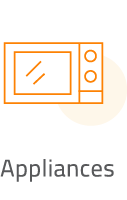
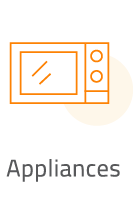
Updated code for adjusting the size of image.

diff --git a/app/src/main/java/com/appyhome/appyproduct/mvvm/ui/appyproduct/product/list/adapter/ProductItemViewModel.java b/app/src/main/java/com/appyhome/appyproduct/mvvm/ui/appyproduct/product/list/adapter/ProductItemViewModel.java
@@ -5,6 +5,7 @@ import android.databinding.ObservableField;
 import com.appyhome.appyproduct.mvvm.data.DataManager;
 import com.appyhome.appyproduct.mvvm.ui.base.BaseViewModel;
 import com.appyhome.appyproduct.mvvm.utils.rx.SchedulerProvider;
+import com.crashlytics.android.Crashlytics;
 
 public class ProductItemViewModel extends BaseViewModel<ProductItemNavigator> {
 
@@ -14,18 +15,14 @@ public class ProductItemViewModel extends BaseViewModel<ProductItemNavigator> {
     public ObservableField<Float> rate = new ObservableField<>(0f);
     public ObservableField<String> rateCount = new ObservableField<>("");
     public ObservableField<String> favoriteCount = new ObservableField<>("");
+    public ObservableField<Boolean> isFavorite = new ObservableField<>(false);
 
-    private int idCategory;
+    public ProductItemViewModel(DataManager dataManager,
+                                SchedulerProvider schedulerProvider) {
+        super(dataManager, schedulerProvider);
+    }
 
     private int idProduct;
-
-    public ProductItemViewModel() {
-        super();
-    }
-
-    public void setIdCategory(int idCategory) {
-        this.idCategory = idCategory;
-    }
 
     public int getIdProduct() {
         return idProduct;
@@ -33,5 +30,55 @@ public class ProductItemViewModel extends BaseViewModel<ProductItemNavigator> {
 
     public void setIdProduct(int idProduct) {
         this.idProduct = idProduct;
+    }
+
+    public void checkIfFavorite() {
+        getCompositeDisposable().add(getDataManager().isFavorite(idProduct, "1234")
+                .observeOn(getSchedulerProvider().ui())
+                .subscribe(value -> {
+                    isFavorite.set(value);
+                }, throwable -> {
+                    isFavorite.set(false);
+                    throwable.printStackTrace();
+                    Crashlytics.logException(throwable);
+                }));
+    }
+
+    public void updateProductFavorite(int position) {
+        boolean checkFavorite = !isFavorite.get();
+        if (checkFavorite)
+            getCompositeDisposable().add(getDataManager().addFavorite(idProduct, "1234")
+                    .observeOn(getSchedulerProvider().ui())
+                    .subscribe(value -> {
+                        getNavigator().showAlert("Favorited");
+                        getNavigator().notifyItemChanged(position);
+                    }, throwable -> {
+                        throwable.printStackTrace();
+                        Crashlytics.logException(throwable);
+                    }));
+        else
+            getCompositeDisposable().add(getDataManager().unFavorite(idProduct, "1234")
+                    .observeOn(getSchedulerProvider().ui())
+                    .subscribe(value -> {
+                        getNavigator().showAlert("Unfavorited");
+                        getNavigator().notifyItemChanged(position);
+                    }, throwable -> {
+                        throwable.printStackTrace();
+                        Crashlytics.logException(throwable);
+                    }));
+    }
+
+    public void addProductToCart() {
+        getCompositeDisposable().add(getDataManager().addProductToCart(idProduct, "1234")
+                .observeOn(getSchedulerProvider().ui())
+                .subscribe(productCart -> {
+                    if (productCart != null) {
+                        getNavigator().showAlert("Added to cart");
+                        getNavigator().updateCartCount();
+                    }
+                }, throwable -> {
+                    throwable.printStackTrace();
+                    Crashlytics.logException(throwable);
+                }));
     }
 }

diff --git a/app/src/main/java/com/appyhome/appyproduct/mvvm/ui/appyproduct/product/list/adapter/ProductAdapter.java b/app/src/main/java/com/appyhome/appyproduct/mvvm/ui/appyproduct/product/list/adapter/ProductAdapter.java
@@ -8,6 +8,7 @@ import android.view.ViewGroup;
 import com.appyhome.appyproduct.mvvm.R;
 import com.appyhome.appyproduct.mvvm.data.local.db.realm.Product;
 import com.appyhome.appyproduct.mvvm.databinding.ViewItemProductBinding;
+import com.appyhome.appyproduct.mvvm.ui.appyproduct.product.list.ProductListViewModel;
 import com.appyhome.appyproduct.mvvm.ui.base.BaseViewHolder;
 import com.appyhome.appyproduct.mvvm.ui.common.sample.adapter.SampleAdapter;
 
@@ -47,10 +48,10 @@ public class ProductAdapter extends SampleAdapter {
     }
 
     private ProductItemViewModel createViewModel(Product product, ProductItemNavigator navigator) {
-        ProductItemViewModel itemViewModel = new ProductItemViewModel();
+        ProductListViewModel viewModel = navigator.getMainViewModel();
+        ProductItemViewModel itemViewModel = new ProductItemViewModel(viewModel.getDataManager(), viewModel.getSchedulerProvider());
         itemViewModel.title.set(product.product_name);
         itemViewModel.imageURL.set(product.avatar_name);
-        itemViewModel.setIdCategory(product.category_id);
         itemViewModel.setIdProduct(product.id);
         itemViewModel.price.set("RM " + product.price);
         itemViewModel.setNavigator(navigator);
@@ -93,14 +94,22 @@ public class ProductAdapter extends SampleAdapter {
         @Override
         public void onBind(int position) {
             ProductItemViewModel viewModel = (ProductItemViewModel) mItems.get(position);
+            //viewModel.checkIfFavorite();
             if (mBinding != null) {
                 mBinding.setViewModel(viewModel);
                 mBinding.llItemView.setTag(mBinding.getViewModel());
+                mBinding.ibAddFavorite.setOnClickListener(view -> {
+                    Object tag = view.getTag();
+                    if (tag instanceof ProductItemViewModel) {
+                        ProductItemViewModel tempModel = (ProductItemViewModel) tag;
+                        tempModel.updateProductFavorite(mItems.indexOf(tempModel));
+                    }
+                });
                 mBinding.llItemView.setOnClickListener(view -> {
                     Object tag = view.getTag();
                     if (tag instanceof ProductItemViewModel) {
                         ProductItemViewModel tempModel = (ProductItemViewModel) tag;
-                        tempModel.getNavigator().onClickProductItem(ProductAdapter.this, view, viewModel.getIdProduct());
+                        tempModel.addProductToCart();
                     }
                 });
             }

diff --git a/app/src/main/java/com/appyhome/appyproduct/mvvm/ui/appyproduct/product/list/ProductListViewModel.java b/app/src/main/java/com/appyhome/appyproduct/mvvm/ui/appyproduct/product/list/ProductListViewModel.java
@@ -1,6 +1,7 @@
 package com.appyhome.appyproduct.mvvm.ui.appyproduct.product.list;
 
 import android.databinding.ObservableField;
+import android.util.Log;
 
 import com.appyhome.appyproduct.mvvm.data.DataManager;
 import com.appyhome.appyproduct.mvvm.data.local.db.realm.Product;
@@ -23,13 +24,14 @@ public class ProductListViewModel extends BaseViewModel<ProductListNavigator> {
         getCompositeDisposable().add(getDataManager()
                 .fetchProductsByIdCategory(new ProductListRequest(idSub, 0))
                 .subscribeOn(getSchedulerProvider().io())
-                .observeOn(getSchedulerProvider().ui())
+                .observeOn(getSchedulerProvider().mainThread())
                 .subscribe(response -> {
                     if (response.message != null && response.message.length > 0) {
                         addProductsToDatabase(response.message);
                     }
                 }, throwable -> {
                     getNavigator().showEmptyProducts();
+                    throwable.printStackTrace();
                     Crashlytics.logException(throwable);
                 }));
     }
@@ -68,22 +70,9 @@ public class ProductListViewModel extends BaseViewModel<ProductListNavigator> {
                 }, throwable -> {
                     throwable.printStackTrace();
                     getNavigator().showProducts(cachedList);
+                    Log.e("getProductsBySubCategory", throwable.getMessage());
                     Crashlytics.logException(throwable);
                 }));
     }
 
-    public void addProductToCart(int idProduct) {
-        getCompositeDisposable().add(getDataManager().addProductToCart(idProduct, "1234")
-                .observeOn(getSchedulerProvider().ui())
-                .subscribe(productCart -> {
-                    // DONE ADDED
-                    if (productCart != null) {
-                        getNavigator().showAlert("Added to cart");
-                        getNavigator().updateCartCount();
-                    }
-                }, throwable -> {
-                    throwable.printStackTrace();
-                    Crashlytics.logException(throwable);
-                }));
-    }
 }

diff --git a/app/src/main/java/com/appyhome/appyproduct/mvvm/ui/appyproduct/product/list/ProductListActivity.java b/app/src/main/java/com/appyhome/appyproduct/mvvm/ui/appyproduct/product/list/ProductListActivity.java
@@ -49,6 +49,11 @@ public class ProductListActivity extends BaseActivity<ActivityProductListBinding
     }
 
     @Override
+    public ProductListViewModel getMainViewModel() {
+        return mViewModel;
+    }
+
+    @Override
     protected void onCreate(Bundle savedInstanceState) {
         super.onCreate(savedInstanceState);
         mBinder = getViewDataBinding();
@@ -142,11 +147,6 @@ public class ProductListActivity extends BaseActivity<ActivityProductListBinding
     }
 
     @Override
-    public void onClickProductItem(ProductAdapter adapter, View view, int idProduct) {
-        mViewModel.addProductToCart(idProduct);
-    }
-
-    @Override
     public void onTabSelected(TabLayout.Tab tab) {
 
     }
@@ -154,6 +154,11 @@ public class ProductListActivity extends BaseActivity<ActivityProductListBinding
     @Override
     public void onTabUnselected(TabLayout.Tab tab) {
 
+    }
+
+    @Override
+    public void notifyItemChanged(int position) {
+        mProductAdapter.notifyItemChanged(position);
     }
 
     @Override

diff --git a/app/src/main/java/com/appyhome/appyproduct/mvvm/data/local/db/AppDbHelper.java b/app/src/main/java/com/appyhome/appyproduct/mvvm/data/local/db/AppDbHelper.java
@@ -469,6 +469,24 @@ public class AppDbHelper implements DbHelper {
     }
 
     @Override
+    public Flowable<Boolean> isFavorite(int productId, String userId) {
+        return Flowable.fromCallable(() -> {
+            try {
+                getRealm().beginTransaction();
+                ProductFavorite favorite = getRealm().where(ProductFavorite.class)
+                        .equalTo("user_id", userId)
+                        .equalTo("productId", productId)
+                        .findFirst();
+                boolean isFavorite = (favorite != null && favorite.isValid());
+                getRealm().commitTransaction();
+                return isFavorite;
+            } catch (Exception e) {
+                return false;
+            }
+        });
+    }
+
+    @Override
     public Flowable<Boolean> unFavorite(int productId, String userId) {
         try {
             getRealm().beginTransaction();

diff --git a/app/src/main/java/com/appyhome/appyproduct/mvvm/utils/helper/ViewUtils.java b/app/src/main/java/com/appyhome/appyproduct/mvvm/utils/helper/ViewUtils.java
@@ -85,16 +85,12 @@ public final class ViewUtils {
         }
     }
 
-    public static void setOnClickListenersOfParentView(ViewGroup view) {
-
-    }
-
     public static void loadImageAsset(Context context, ImageView imageView, String imagePath) {
         AssetManager assetManager = context.getAssets();
         try {
             InputStream ims = assetManager.open(imagePath);
             Drawable d = Drawable.createFromStream(ims, null);
-            imageView.setImageDrawable(d);
+            imageView.setBackground(d);
         } catch (Exception ex) {
             return;
         }

diff --git a/app/src/main/java/com/appyhome/appyproduct/mvvm/utils/helper/BindingUtils.java b/app/src/main/java/com/appyhome/appyproduct/mvvm/utils/helper/BindingUtils.java
@@ -70,6 +70,16 @@ public final class BindingUtils {
         }
     }
 
+    @BindingAdapter("isFavorite")
+    public static void setIsFavorite(ImageView imageView, boolean isFavorite) {
+        if (isFavorite) {
+            imageView.setBackgroundResource(R.mipmap.icon_favorite);
+        } else {
+            imageView.setBackgroundResource(R.mipmap.icon_unfavorite);
+        }
+    }
+
+
     @BindingAdapter({"adapter"})
     public static void addOpenSourceItems(RecyclerView recyclerView,
                                           ArrayList<OpenSourceItemViewModel> openSourceItems) {

diff --git a/app/src/main/java/com/appyhome/appyproduct/mvvm/ui/appyproduct/product/list/adapter/ProductItemNavigator.java b/app/src/main/java/com/appyhome/appyproduct/mvvm/ui/appyproduct/product/list/adapter/ProductItemNavigator.java
@@ -2,6 +2,11 @@ package com.appyhome.appyproduct.mvvm.ui.appyproduct.product.list.adapter;
 
 import android.view.View;
 
+import com.appyhome.appyproduct.mvvm.ui.appyproduct.product.list.ProductListViewModel;
+
 public interface ProductItemNavigator {
-    void onClickProductItem(ProductAdapter adapter, View view, int idProduct);
+    ProductListViewModel getMainViewModel();
+    void updateCartCount();
+    void showAlert(String message);
+    void notifyItemChanged(int position);
 }

diff --git a/app/src/main/java/com/appyhome/appyproduct/mvvm/data/AppDataManager.java b/app/src/main/java/com/appyhome/appyproduct/mvvm/data/AppDataManager.java
@@ -546,4 +546,9 @@ public class AppDataManager implements DataManager {
     public Flowable<RealmResults<ProductFavorite>> getAllProductFavorites(String userId) {
         return mDbHelper.getAllProductFavorites(userId);
     }
+
+    @Override
+    public Flowable<Boolean> isFavorite(int productId, String userId) {
+        return mDbHelper.isFavorite(productId, userId);
+    }
 }

diff --git a/app/src/main/java/com/appyhome/appyproduct/mvvm/utils/rx/AppSchedulerProvider.java b/app/src/main/java/com/appyhome/appyproduct/mvvm/utils/rx/AppSchedulerProvider.java
@@ -17,6 +17,11 @@ public class AppSchedulerProvider implements SchedulerProvider {
     }
 
     @Override
+    public Scheduler mainThread() {
+        return AndroidSchedulers.mainThread();
+    }
+
+    @Override
     public Scheduler newThread() {
         return Schedulers.newThread();
     }

diff --git a/app/src/main/java/com/appyhome/appyproduct/mvvm/data/local/db/DbHelper.java b/app/src/main/java/com/appyhome/appyproduct/mvvm/data/local/db/DbHelper.java
@@ -75,5 +75,7 @@ public interface DbHelper {
 
     Flowable<RealmResults<ProductFavorite>> getAllProductFavorites(String userId);
 
+    Flowable<Boolean> isFavorite(int productId, String userId);
+
     void closeDatabase();
 }

diff --git a/app/src/main/java/com/appyhome/appyproduct/mvvm/utils/rx/SchedulerProvider.java b/app/src/main/java/com/appyhome/appyproduct/mvvm/utils/rx/SchedulerProvider.java
@@ -12,4 +12,6 @@ public interface SchedulerProvider {
 
     Scheduler newThread();
 
+    Scheduler mainThread();
+
 }
